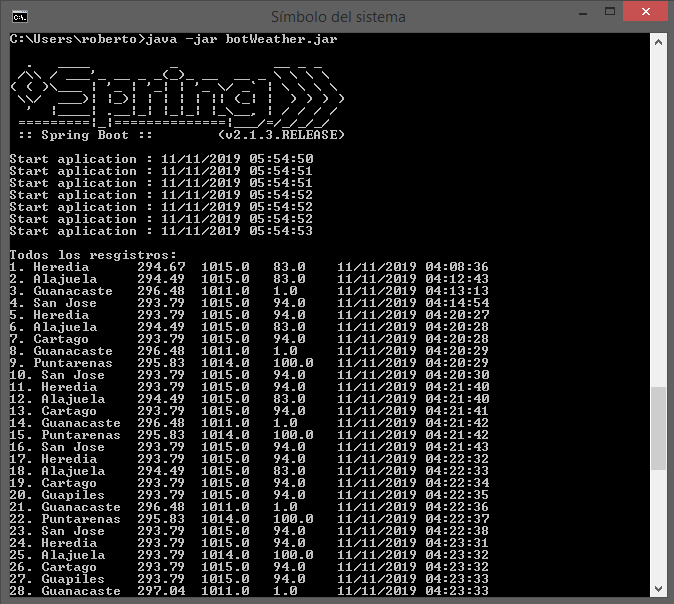
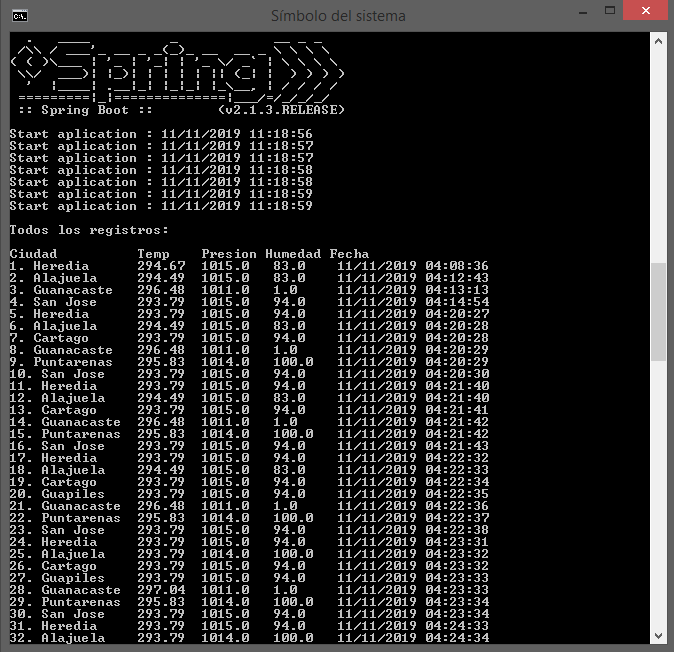
fix format out print.

Changed region(s): [[0.0, 0.0, 0.997, 1.0], [0.9659, 0.3874, 0.997, 0.5662], [0.9659, 0.6258, 0.997, 0.7748]]

diff --git a/botWeather/src/main/java/com/abrobber/weather/WeatherApp.java b/botWeather/src/main/java/com/abrobber/weather/WeatherApp.java
@@ -58,7 +58,8 @@ public class WeatherApp implements CommandLineRunner {
         
         Iterable<Weather> iterator = repository.findAll();
 
-        System.out.println("\nTodos los resgistros: ");
+        System.out.println("\nTodos los registros: ");
+        System.out.println("\nCiudad\t\tTemp\tPresion\tHumedad\tFecha");
         iterator.forEach(name -> System.out.println(name));
 
         List<Weather> city = repository.findByName("Heredia");
